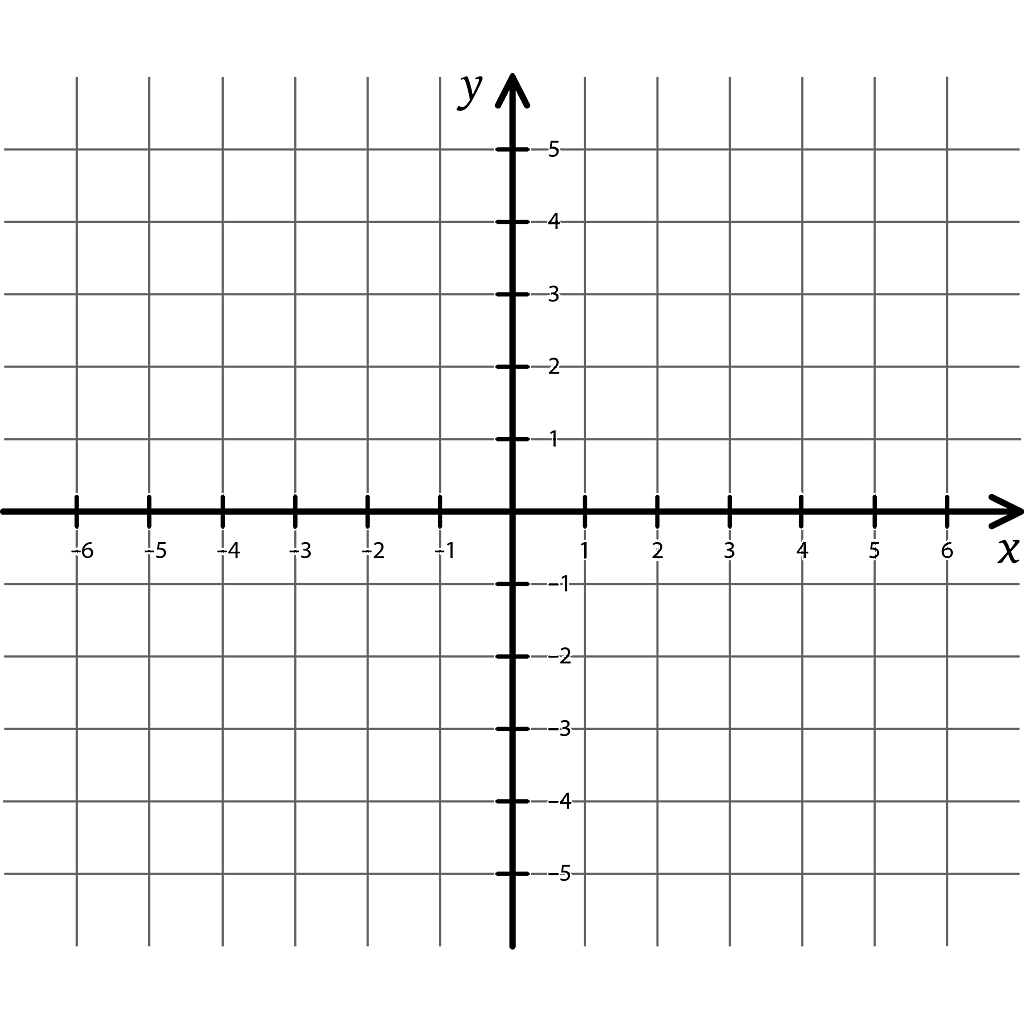
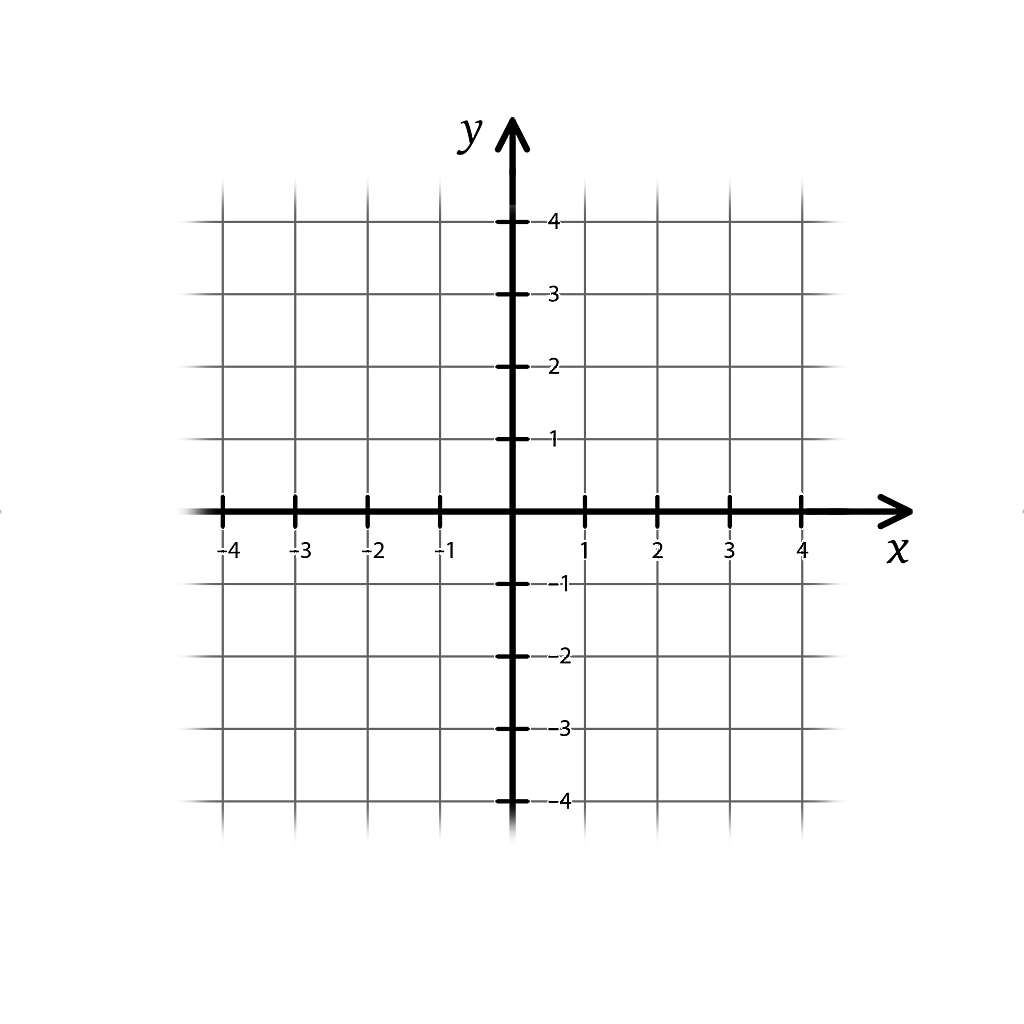
Enemies now only at places which can be shot with the line. Other improvements

diff --git a/Assets/Scripts/CannonController.cs b/Assets/Scripts/CannonController.cs
@@ -33,7 +33,6 @@ public class CannonController : MonoBehaviour {
     int kDown = 1;
 
     int b = 0;
-    private float journeyLength;
 
     // Use this for initialization
     void Start () {
@@ -119,8 +118,8 @@ public class CannonController : MonoBehaviour {
             else if (k == 0f)
             {
                 kUp = 1;
-                kDown = 5;
-            } else if (kUp == -1 && kDown == 5)
+                kDown = Map.MAX_Y;
+            } else if (kUp == -1 && kDown == Map.MAX_Y)
             {
                 kUp = 0;
                 kDown = 1;
@@ -149,7 +148,7 @@ public class CannonController : MonoBehaviour {
                 kUp = 1;
                 kDown = 2;
             }
-            else if (kUp == 1 && kDown == 5)
+            else if (kUp == 1 && kDown == Map.MAX_Y)
             {
                 kUp = 0;
                 kDown = 1;
@@ -161,7 +160,7 @@ public class CannonController : MonoBehaviour {
             else if (k == 0f)
             {
                 kUp = -1;
-                kDown = 5;
+                kDown = Map.MAX_Y;
             }
             else if (k <= 0 && k > -1)
             {
@@ -173,10 +172,15 @@ public class CannonController : MonoBehaviour {
             }
         }
 
-        kUp = Mathf.Clamp(kUp, -5, 5);
-        kDown = Mathf.Clamp(kDown, -5, 5);
+        kUp = Mathf.Clamp(kUp, -Map.MAX_Y, Map.MAX_Y);
+        kDown = Mathf.Clamp(kDown, -Map.MAX_Y, Map.MAX_Y);
 
         DrawNumbers();
+    }
+
+    bool isLineCrossingPlayer()
+    {
+        return player.gameObject.transform.position.y == b;
     }
 
     void DrawLine(Vector3 start, Vector3 end)
@@ -195,7 +199,7 @@ public class CannonController : MonoBehaviour {
             lineRenderer.sortingLayerName = "Players";
         }
 
-        if (player.gameObject.transform.position.y == b)
+        if (isLineCrossingPlayer())
         {
             lineRenderer.SetColors(okColor, okColor);
         } else
@@ -217,7 +221,6 @@ public class CannonController : MonoBehaviour {
         currentStart = start;
         currentEnd = end;
 
-        journeyLength = (oldStart - currentStart).magnitude;
         startTime = Time.time;
     }
 
@@ -235,7 +238,10 @@ public class CannonController : MonoBehaviour {
 
         lineRenderer.SetPosition(0, iterationStart);
         lineRenderer.SetPosition(1, iterationEnd);
-        player.SetRotation(iterationEnd);
+
+        if (isLineCrossingPlayer()) {
+            player.SetRotation(iterationEnd);
+        }
 
         if (fracJourney == 1)
             startTime = -1;
@@ -243,6 +249,13 @@ public class CannonController : MonoBehaviour {
 
     public void Shoot()
     {
+        if (!isLineCrossingPlayer())
+        {
+            // Cannot shoot
+            lineRenderer.SetColors(failColor, failColor);
+            return;
+        }
+
         bool hitEnemy = player.Shoot(currentStart, currentEnd);
 
         if (hitEnemy)

diff --git a/Assets/Scripts/EnemyTank.cs b/Assets/Scripts/EnemyTank.cs
@@ -1,5 +1,6 @@
 using UnityEngine;
 using System.Collections;
+using System;
 
 public class EnemyTank : MonoBehaviour
 {
@@ -18,24 +19,35 @@ public class EnemyTank : MonoBehaviour
     // Use this for initialization
     void Start()
     {
-        float x = Random.Range(Map.MAX_X * -1, Map.MAX_X);
-        float y = Random.Range(Map.MAX_Y * -1, Map.MAX_Y);
+        var playerPosition = GameObject.Find("Player").transform.position;
+
+        float x = 0;
+        float y = 0;
+
+        do
+        {
+            x = UnityEngine.Random.Range(Map.MAX_X * -1, Map.MAX_X);
+            y = UnityEngine.Random.Range(Map.MAX_Y * -1, Map.MAX_Y);
+
+
+        } while (!isAcceptable(x, y, playerPosition));
+
         targetCoordinates = new Vector3(x, y, 1);
 
         float startY;
         float startX;
 
-        bool isOnX = Random.value < 0.5;
+        bool isOnX = UnityEngine.Random.value < 0.5;
 
         // Randomize whether the start location is on X or Y axis
         if (isOnX)
         {
             startY = Map.OUTSIDE_Y;
-            startX = Random.value * Map.OUTSIDE_X;
+            startX = UnityEngine.Random.value * Map.OUTSIDE_X;
         } else
         {
             startX = Map.OUTSIDE_X;
-            startY = Random.value * Map.OUTSIDE_Y;
+            startY = UnityEngine.Random.value * Map.OUTSIDE_Y;
         }
 
         // Start location should be near start location, so move them to the correct quarter
@@ -57,6 +69,28 @@ public class EnemyTank : MonoBehaviour
         iTween.MoveTo(gameObject, ht);
 
         SetRotation(targetCoordinates);
+    }
+
+    private bool isAcceptable(float x, float y, Vector3 playerPosition)
+    {
+        if (x == playerPosition.x && y == playerPosition.y)
+            return false;
+
+        var line = playerPosition - new Vector3(x, y, 1);
+        var k = Math.Abs(line.y / x);
+
+        // Integer k is fine
+        if (k == (int)k && k < Map.MAX_Y)
+            return true;
+
+        // If k can be presented as 1/(1...Map.MAX_Y), then k is fine
+        for (int i = 1; i <= Map.MAX_Y; i++)
+        {
+            if ( Mathf.Abs(k - 1.0f/i) < 0.1 )
+                return true;
+        }
+
+        return false;
     }
 
     void Stop()
@@ -104,6 +138,6 @@ public class EnemyTank : MonoBehaviour
     public void Explode()
     {
         Instantiate(explosionPrefab, transform.position, Quaternion.identity);
-        Object.Destroy(transform.gameObject, 0.35f);
+        UnityEngine.Object.Destroy(transform.gameObject, 0.35f);
     }
 }

diff --git a/Assets/Scripts/Player.cs b/Assets/Scripts/Player.cs
@@ -11,15 +11,50 @@ public class Player : MonoBehaviour {
     public GameObject F16Prefab;
     HealthBar healthBar;
 
+    float BOAT_SPEED = 6;
+    float PLAYER_MOVE_INTERVAL = 15;
+    float timeSinceLastMove = 0;
+
+    bool allowShooting = true;
+
+    EnemyManager enemyManager;
+
     // Use this for initialization
     void Start () {
+        enemyManager = GameObject.Find("Enemy Manager").GetComponent<EnemyManager>();
         healthBar = GameObject.Find("Health Bar").GetComponent<HealthBar>();
         ReceiveDamage(0); // To update health bar
 	}
 	
 	// Update is called once per frame
-	void Update () {	
-	}
+	void Update () {
+
+        if (!allowShooting)
+            return; // Is moving already
+
+        timeSinceLastMove -= Time.deltaTime;
+
+        if (timeSinceLastMove <= 0 && enemyManager.getEnemyCount() == 0)
+        {
+            allowShooting = false;
+
+            int newY = (int)Mathf.Round(Map.PLAYER_MAX_Y - 2*UnityEngine.Random.value * Map.PLAYER_MAX_Y);
+
+            Hashtable ht = new Hashtable();
+            ht.Add("time", Mathf.Abs(newY-transform.position.y) / BOAT_SPEED); // t = s/v
+            ht.Add("easetype", "linear");
+            ht.Add("x", 0);
+            ht.Add("y", newY);
+            ht.Add("onComplete", "Stop");
+            iTween.MoveTo(gameObject, ht);
+        }
+    }
+
+    void Stop()
+    {
+        timeSinceLastMove = PLAYER_MOVE_INTERVAL;
+        allowShooting = true;
+    }
 
     public void DropBomb(int x, int y)
     {
@@ -29,6 +64,9 @@ public class Player : MonoBehaviour {
 
     internal bool Shoot(Vector3 start, Vector3 end)
     {
+        if (!allowShooting)
+            return false;
+
         // Muzzle flash
         GameObject explosion1 = (GameObject)Instantiate(explosionPrefab, transform.Find("Barrel Position 1").position, Quaternion.identity);
         explosion1.transform.localScale = explosion1.transform.localScale / 3;
@@ -52,7 +90,7 @@ public class Player : MonoBehaviour {
         return hitEnemy;
     }
 
-        public void SetRotation(Vector3 toCoordinates)
+    public void SetRotation(Vector3 toCoordinates)
     {
         Vector3 vectorToTarget = toCoordinates - transform.position;
         float angle = Mathf.Atan2(vectorToTarget.y, vectorToTarget.x) * Mathf.Rad2Deg;

diff --git a/Assets/Scripts/EnemyManager.cs b/Assets/Scripts/EnemyManager.cs
@@ -5,7 +5,7 @@ public class EnemyManager : MonoBehaviour {
 
     public GameObject enemyTankPrefab;
 
-    float enemySpawnInterval = 8;
+    float enemySpawnInterval = 7;
     float timeSinceLastSpawnedEnemy = 8;
 
     float enemiesAtStart = 1;
@@ -20,7 +20,7 @@ public class EnemyManager : MonoBehaviour {
         }
 	}
 	
-    int getEnemyCount()
+    public int getEnemyCount()
     {
         return GameObject.FindGameObjectsWithTag("Enemy").Length;
     }

diff --git a/Assets/Scripts/Map.cs b/Assets/Scripts/Map.cs
@@ -3,8 +3,10 @@ using System.Collections;
 
 public class Map : MonoBehaviour {
 
-    public static int MAX_X = 6;
-    public static int MAX_Y = 5;
+    public static int MAX_X = 4;
+    public static int MAX_Y = 4;
+
+    public static int PLAYER_MAX_Y = 4;
 
     public static int OUTSIDE_X = 9;
     public static int OUTSIDE_Y = 9;
